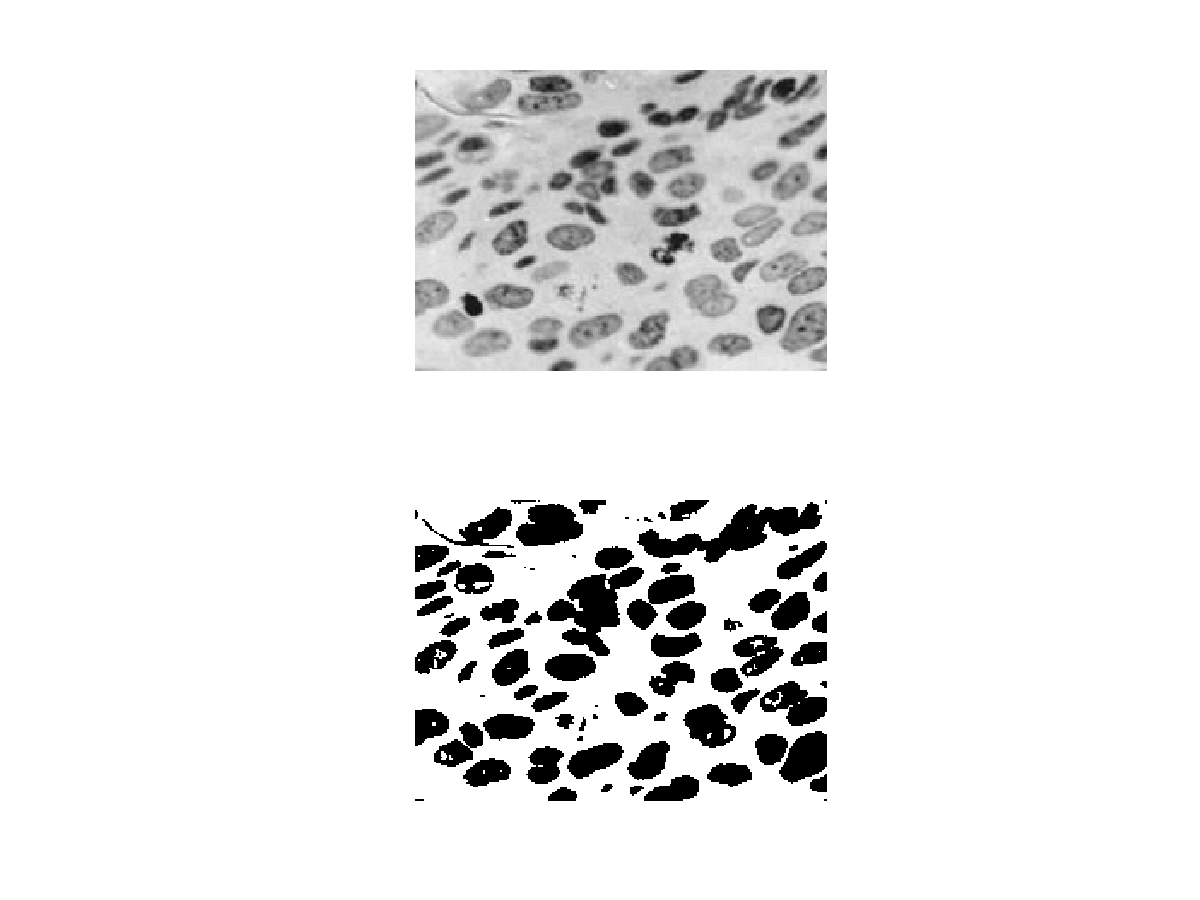
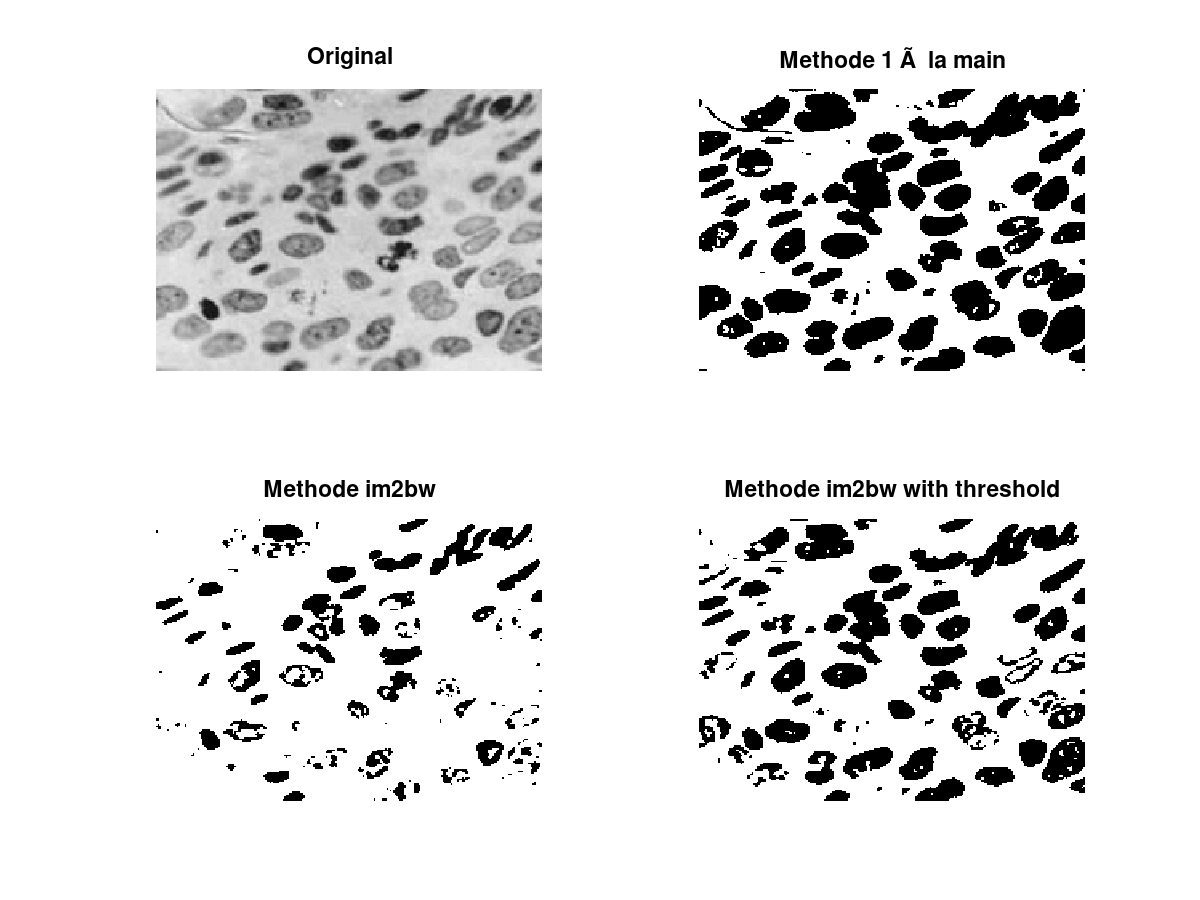
:sparkles: Multiple segmentation + dynamique

diff --git a/TP2/tp2.m b/TP2/tp2.m
@@ -42,9 +42,11 @@ f = figure;
 imshow(chat_transp);
 title("Chat sans fond vert");
 
+
 # 2 - Segmentation
 [noyaux, map, alpha] = imread("data/noyaux.jpeg");
 
+#Methode 1 : a la main
 seuil = 180;
 ind = noyaux(:,:) > seuil; %grab indices where value is > seuil
 noyaux_bin = num2cell(noyaux);
@@ -53,13 +55,63 @@ noyaux_bin(~ind) = 0;
 noyaux_bin;
 noyaux_bin = cell2mat(noyaux_bin);
 
+#Methode 2 : im2bw
+noyaux_bin2 = im2bw(noyaux);
+
+#Methode 3 : with threshold
+threshold = graythresh(noyaux);
+noyaux_bin3 = im2bw(noyaux, threshold);
+
 figure;
-subplot(2,1,1)
+subplot(2,2,1)
 imshow(noyaux)
-f = subplot(2,1,2)
-imshow(noyaux_bin);
+title("Original")
+subplot(2,2,2)
+imshow(noyaux_bin)
+title("Methode 1 à la main")
+subplot(2,2,3)
+imshow(noyaux_bin2)
+title("Methode im2bw")
+f = subplot(2,2,4)
+imshow(noyaux_bin3)
+title("Methode im2bw with threshold")
 saveas(f, "output/noyaux_seg.png");
 
 # 3 - Dynamique
+[Lena_nb, map, alpha] = imread("data/Lena_nb.jpg");
+
+max_lena = max(Lena_nb(:))
+min_lena = min(Lena_nb(:))
+mean_lena = mean(Lena_nb(:))
+std_lena = std(Lena_nb(:))
+N = size(Lena_nb,1)
+M = size(Lena_nb,2)
+
+contraste_v1 = (max_lena - min_lena)/(max_lena + min_lena)
+contraste_v2 = std_lena
+
+figure();
+imhist(Lena_nb);
 
 # 4 - Égalisation
+
+%{
+sum = 0;
+for i = 1:N-1
+  for j = 1:M-1
+      sum += power((Lena_nb(i,j) - mean_lena), 2);
+  endfor
+endfor
+%}
+
+%{
+a = unique(Lena_nb);
+out = [a,histc(Lena_nb(:),a)];
+
+P = out/(N*M);
+figure;
+hist(out(:))
+%}
+
+#figure();
+#histeq(Lena_nb);
